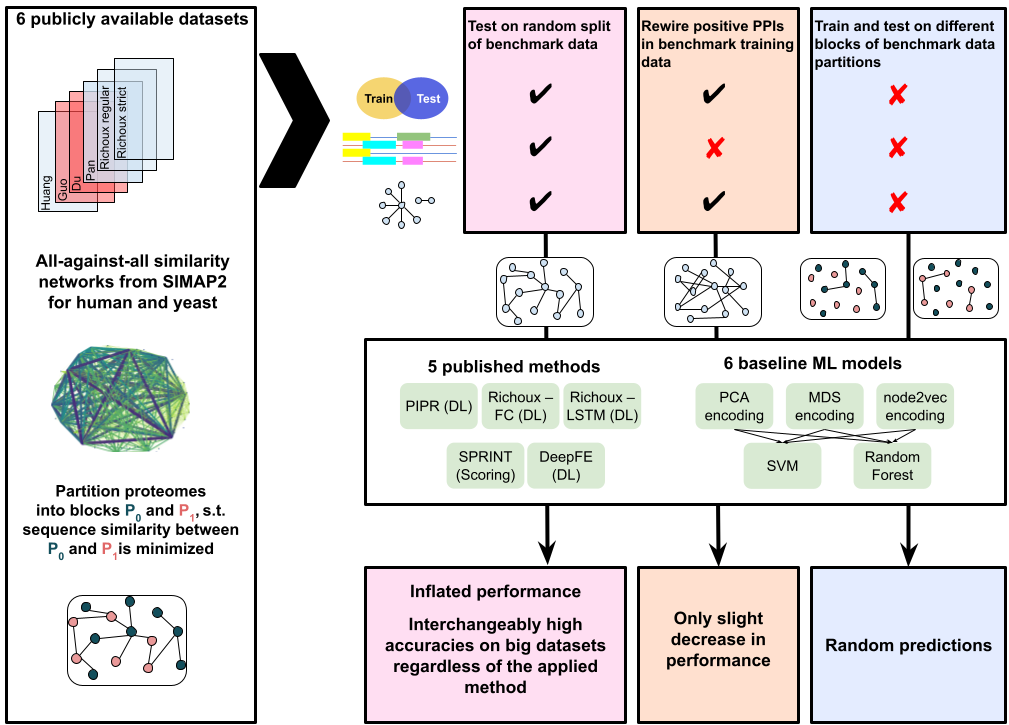
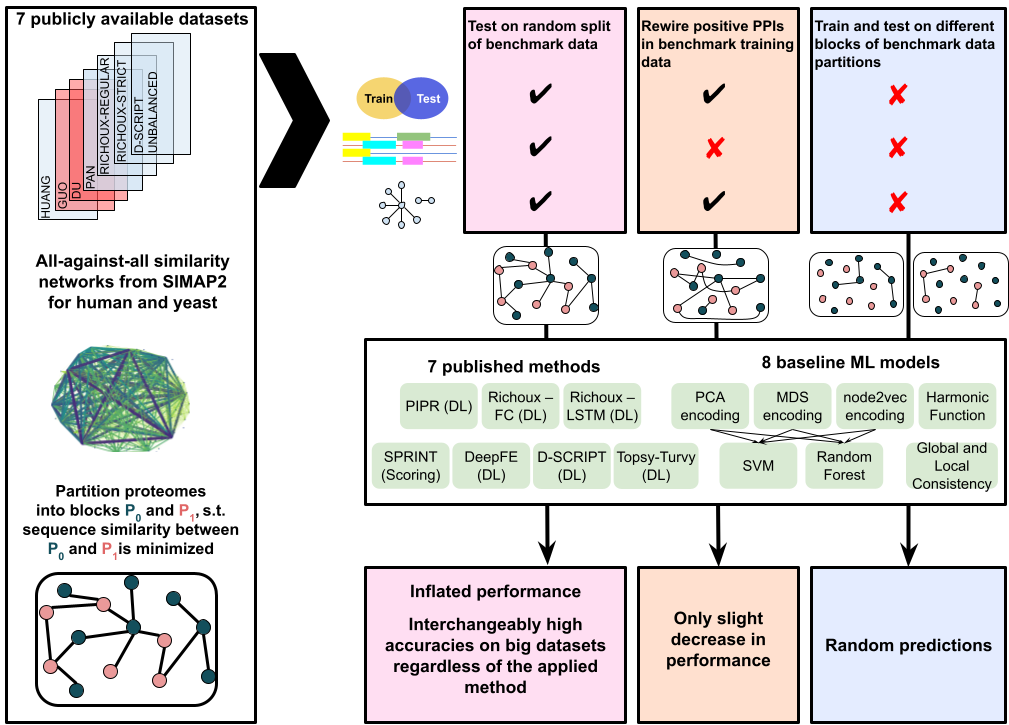
stable version

diff --git a/algorithms/Custom/run.py b/algorithms/Custom/run.py
@@ -67,8 +67,7 @@ def run_simpler_algorithms(rewire=False):
         prefix = 'rewired_'
     else:
         prefix = 'original_'
-    dataset_list = ['dscript']
-    #dataset_list = ['dscript', 'guo', 'huang', 'du', 'pan', 'richoux_regular', 'richoux_strict']
+    dataset_list = ['dscript', 'guo', 'huang', 'du', 'pan', 'richoux_regular', 'richoux_strict']
     for name in dataset_list:
         for encoding in ['PCA', 'MDS', 'node2vec']:
             t_start = time()
@@ -119,19 +118,19 @@ def run_degree_algorithm(rewire=False, partition=False, gold=False, unbalanced=F
         lg = construct_line_graph(dataset=name, prefix=prefix)
         print('Constructed line graph!')
         time_preprocess = time() - t_start
-        #scores_hf = semi_supervised_analysis(lg, shuffle_labels=False, rewired=False, method_name='Harmonic function')
-        #export_scores(scores_hf,
-        #              f'results/{prefix}{name}_hf.csv')
-        #time_elapsed_hf = time() - t_start
-        #print(f'time elapsed: {time_elapsed_hf}')
+        scores_hf = semi_supervised_analysis(lg, shuffle_labels=False, rewired=False, method_name='Harmonic function')
+        export_scores(scores_hf,
+                      f'results/{prefix}{name}_hf.csv')
+        time_elapsed_hf = time() - t_start
+        print(f'time elapsed: {time_elapsed_hf}')
         scores_cons = semi_supervised_analysis(lg, shuffle_labels=False, rewired=False, method_name='Local and global consistency')
-        #export_scores(scores_cons,
-        #              f'results/{prefix}{name}_cons.csv')
-        #time_elapsed_cons = time() - t_start - time_elapsed_hf + time_preprocess
-        #print(f'time elapsed: {time_elapsed_cons}')
-        #with open(f'results/time_{prefix}deg.txt', 'a+') as f:
-        #    f.write(f'{name}\tHarmonic Function\t{time_elapsed_hf}\n')
-        #    f.write(f'{name}\tLocal and Global Consistency\t{time_elapsed_cons}\n')
+        export_scores(scores_cons,
+                      f'results/{prefix}{name}_cons.csv')
+        time_elapsed_cons = time() - t_start - time_elapsed_hf + time_preprocess
+        print(f'time elapsed: {time_elapsed_cons}')
+        with open(f'results/time_{prefix}deg.txt', 'a+') as f:
+            f.write(f'{name}\tHarmonic Function\t{time_elapsed_hf}\n')
+            f.write(f'{name}\tLocal and Global Consistency\t{time_elapsed_cons}\n')
 
 
 def run_gold_standard(unbalanced=False):
@@ -165,21 +164,21 @@ if __name__ == "__main__":
     args = sys.argv[1:]
     if args[0] == 'original':
         print('########################### ORIGINAL ###########################')
-        #run_simpler_algorithms(rewire=False)
+        run_simpler_algorithms(rewire=False)
         run_degree_algorithm(rewire=False, partition=False)
     elif args[0] == 'rewired':
         print('########################### REWIRED ###########################')
-        #run_simpler_algorithms(rewire=True)
+        run_simpler_algorithms(rewire=True)
         run_degree_algorithm(rewire=True, partition=False)
     elif args[0] == 'partition':
         print('########################### PARTITION ###########################')
-        #run_partitioning_tests()
+        run_partitioning_tests()
         run_degree_algorithm(rewire=False, partition=True)
     elif args[0] == 'gold_standard':
         print('########################### GOLD STANDARD ###########################')
-        #run_gold_standard()
+        run_gold_standard()
         run_degree_algorithm(rewire=False, partition=False, gold=True)
     else:
         print('########################### GOLD STANDARD UNBALANCED ###########################')
-        #run_gold_standard(unbalanced=True)
+        run_gold_standard(unbalanced=True)
         run_degree_algorithm(rewire=False, partition=False, unbalanced=True)

diff --git a/algorithms/seq_ppi/binary/model/lasagna/train_all_datasets.py b/algorithms/seq_ppi/binary/model/lasagna/train_all_datasets.py
@@ -289,16 +289,14 @@ if __name__ == '__main__':
     elif prefix == 'gold_standard_unbalanced_':
         datasets = ['gold_standard_unbalanced']
     elif partition:
-        datasets = ['dscript_both_0', 'dscript_both_1', 'dscript_0_1']
-        #datasets = ['dscript_both_0', 'dscript_both_1', 'dscript_0_1',
-        #            'guo_both_0', 'guo_both_1', 'guo_0_1',
-        #            'huang_both_0', 'huang_both_1', 'huang_0_1',
-        #            'du_both_0', 'du_both_1', 'du_0_1',
-        #            'pan_both_0', 'pan_both_1', 'pan_0_1',
-        #            'richoux_both_0', 'richoux_both_1', 'richoux_0_1']
+        datasets = ['dscript_both_0', 'dscript_both_1', 'dscript_0_1',
+                    'guo_both_0', 'guo_both_1', 'guo_0_1',
+                    'huang_both_0', 'huang_both_1', 'huang_0_1',
+                    'du_both_0', 'du_both_1', 'du_0_1',
+                    'pan_both_0', 'pan_both_1', 'pan_0_1',
+                    'richoux_both_0', 'richoux_both_1', 'richoux_0_1']
     else:
-        datasets = ['dscript']
-        #datasets = ['dscript', 'huang', 'guo', 'du', 'pan', 'richoux_regular', 'richoux_strict']
+        datasets = ['dscript', 'huang', 'guo', 'du', 'pan', 'richoux_regular', 'richoux_strict']
     for dataset in datasets:
         t_start = time()
         print(f'####################### {dataset} Dataset #######################')

diff --git a/algorithms/SPRINT/create_SPRINT_datasets.py b/algorithms/SPRINT/create_SPRINT_datasets.py
@@ -440,10 +440,10 @@ def rewrite_dscript(rewired=False):
 
 if __name__ == '__main__':
    sys.path.append('../../')
-   #rewrite_guo(rewired=False)
-   #rewrite_huang(rewired=False)
-   #rewrite_du(rewired=False)
-   #rewrite_pan(rewired=False)
-   #rewrite_richoux(dataset='regular', rewired=False)
-   #rewrite_richoux(dataset='strict', rewired=False)
-   rewrite_dscript(rewired=True)
+   rewrite_guo(rewired=False)
+   rewrite_huang(rewired=False)
+   rewrite_du(rewired=False)
+   rewrite_pan(rewired=False)
+   rewrite_richoux(dataset='regular', rewired=False)
+   rewrite_richoux(dataset='strict', rewired=False)
+   rewrite_dscript(rewired=False)

diff --git a/README.md b/README.md
@@ -9,7 +9,7 @@ We used `git-lfs` to store some of the files so make sure to install it before c
 Most of the code can be run with our main environment ([mac](mac_env.yml), [linux](linux_env.yml)).
 For PIPR, however, a custom environment ist needed ([mac](mac_env_pipr.yml), [linux](linux_env_pipr.yml)). 
 
-The AIMe Report for this project is available at [https://aime-registry.org/report/VRPXym](https://aime-registry.org/report/VRPXym). 
+The biorxiv preprint for this paper is available at [https://www.biorxiv.org/content/10.1101/2023.01.18.524543v2](https://www.biorxiv.org/content/10.1101/2023.01.18.524543v2). The AIMe Report for this project is available at [https://aime-registry.org/report/VRPXym](https://aime-registry.org/report/VRPXym). 
 
 ![](Overview%20Figure%20Compact.png)
 
